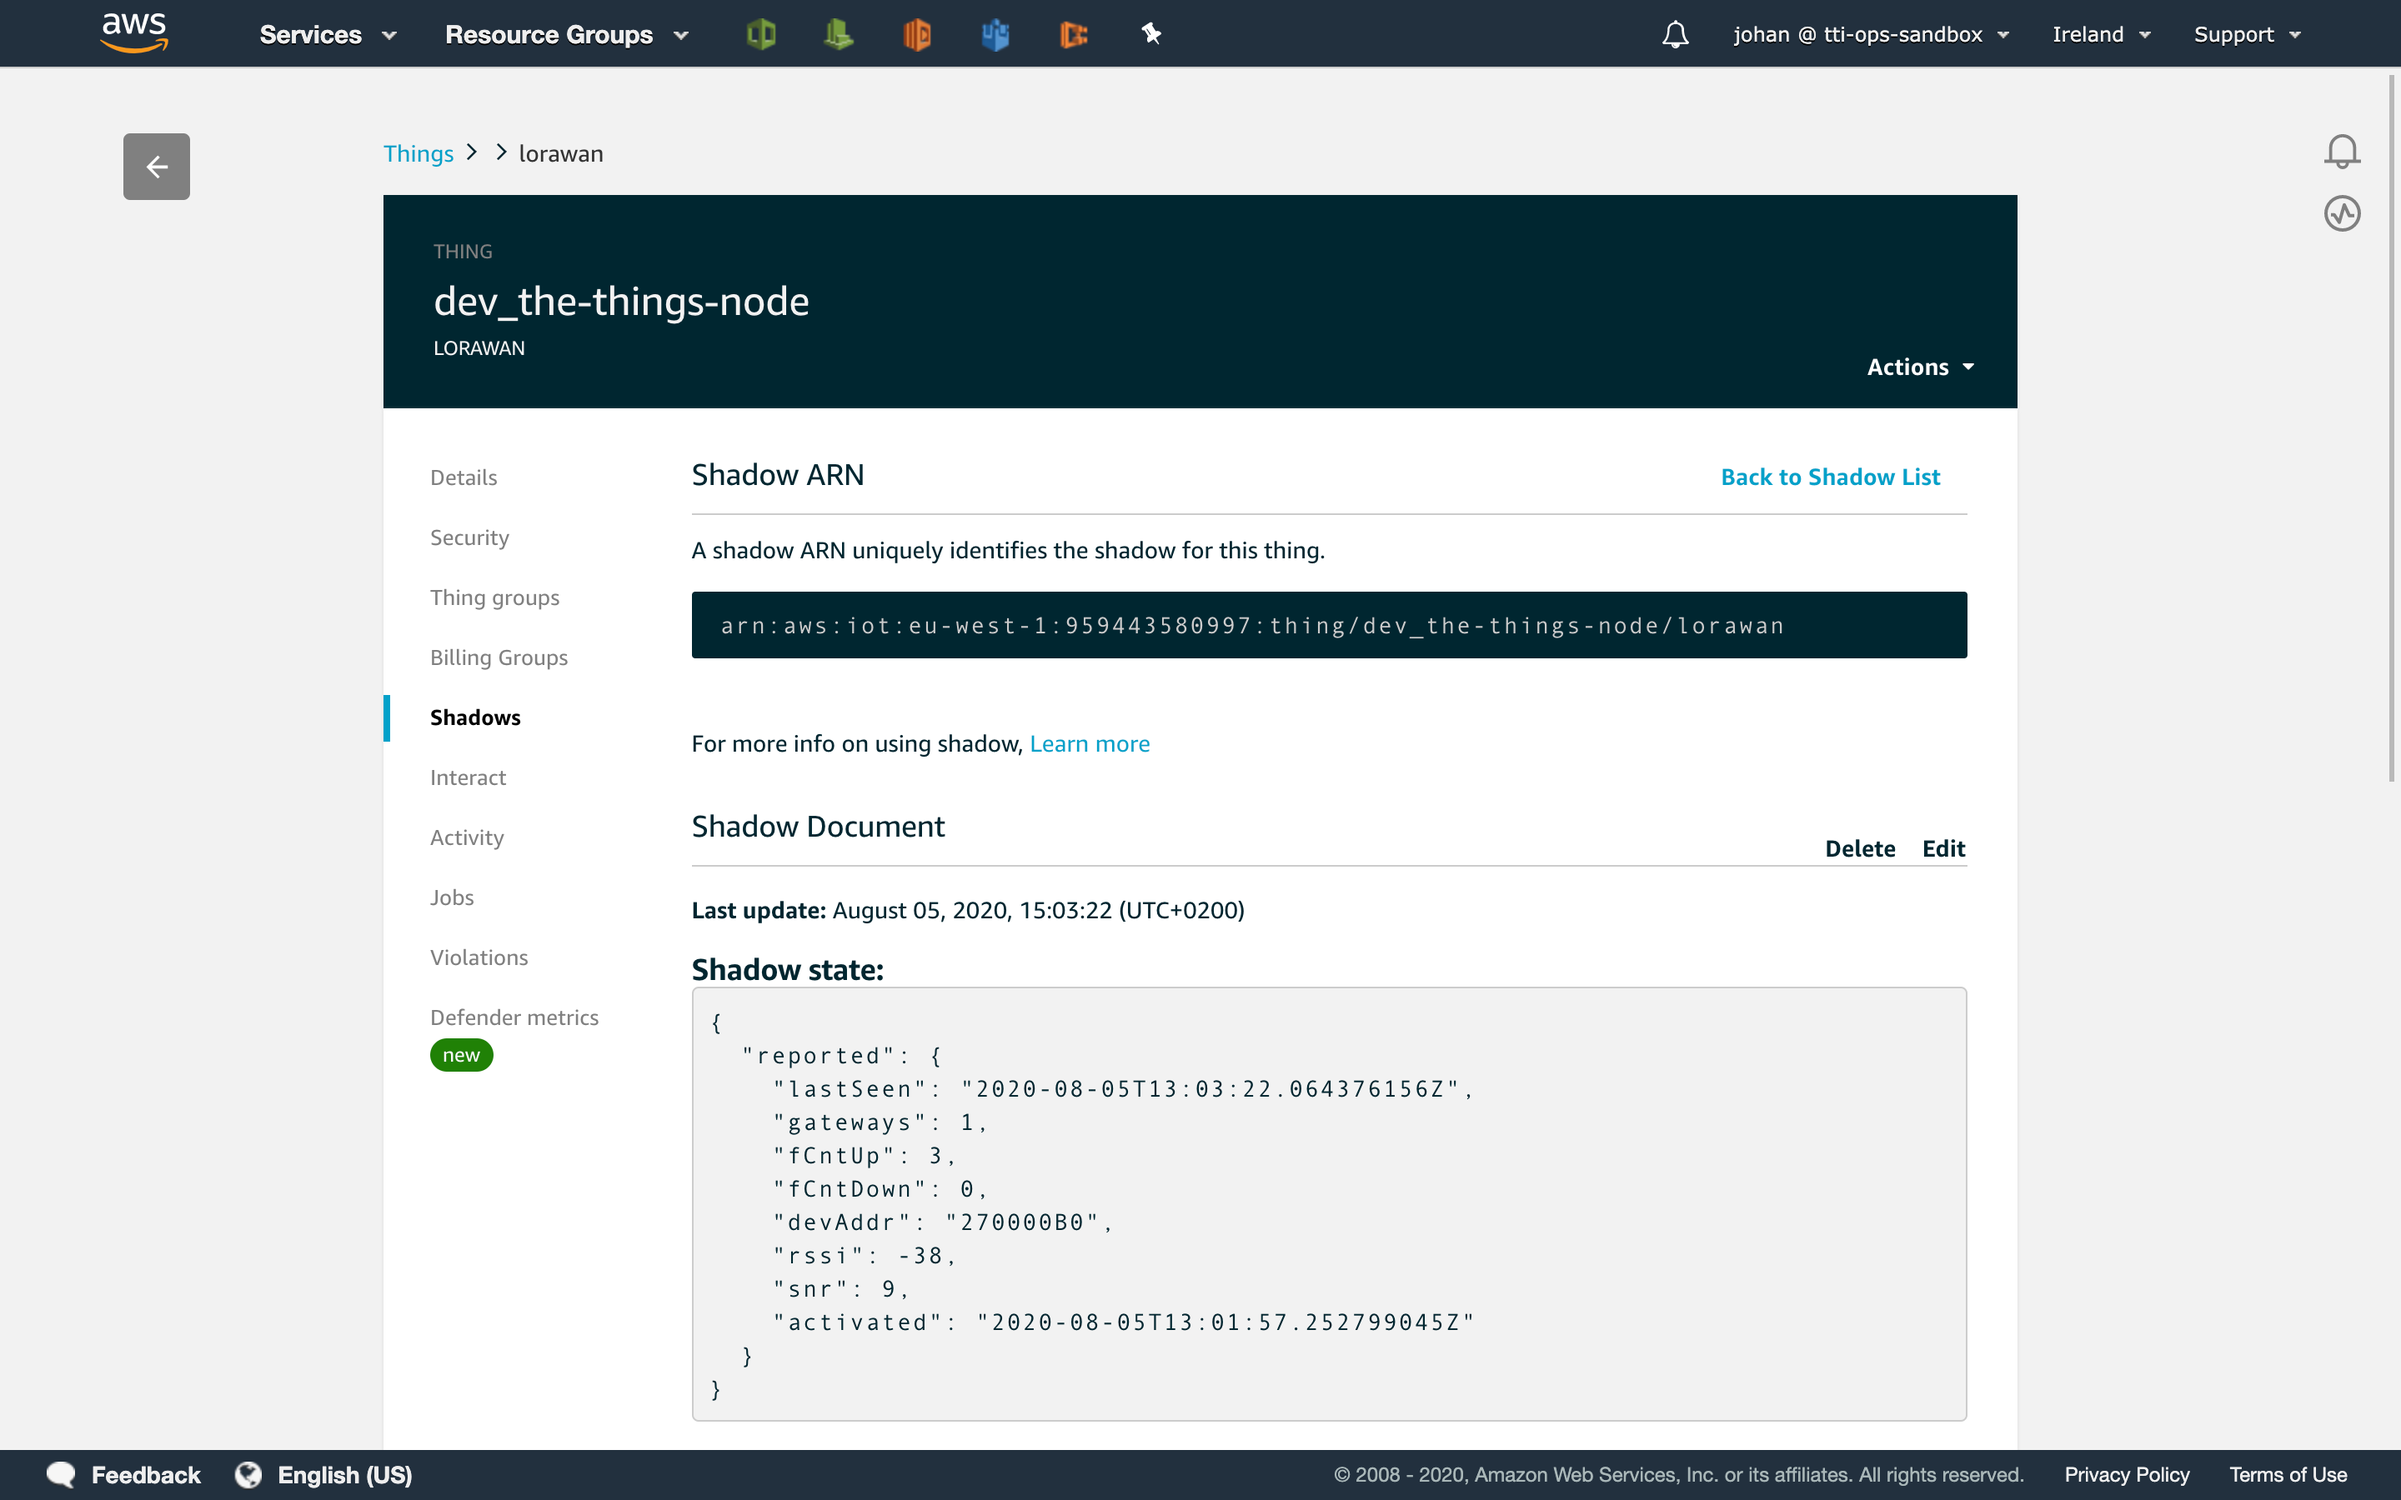
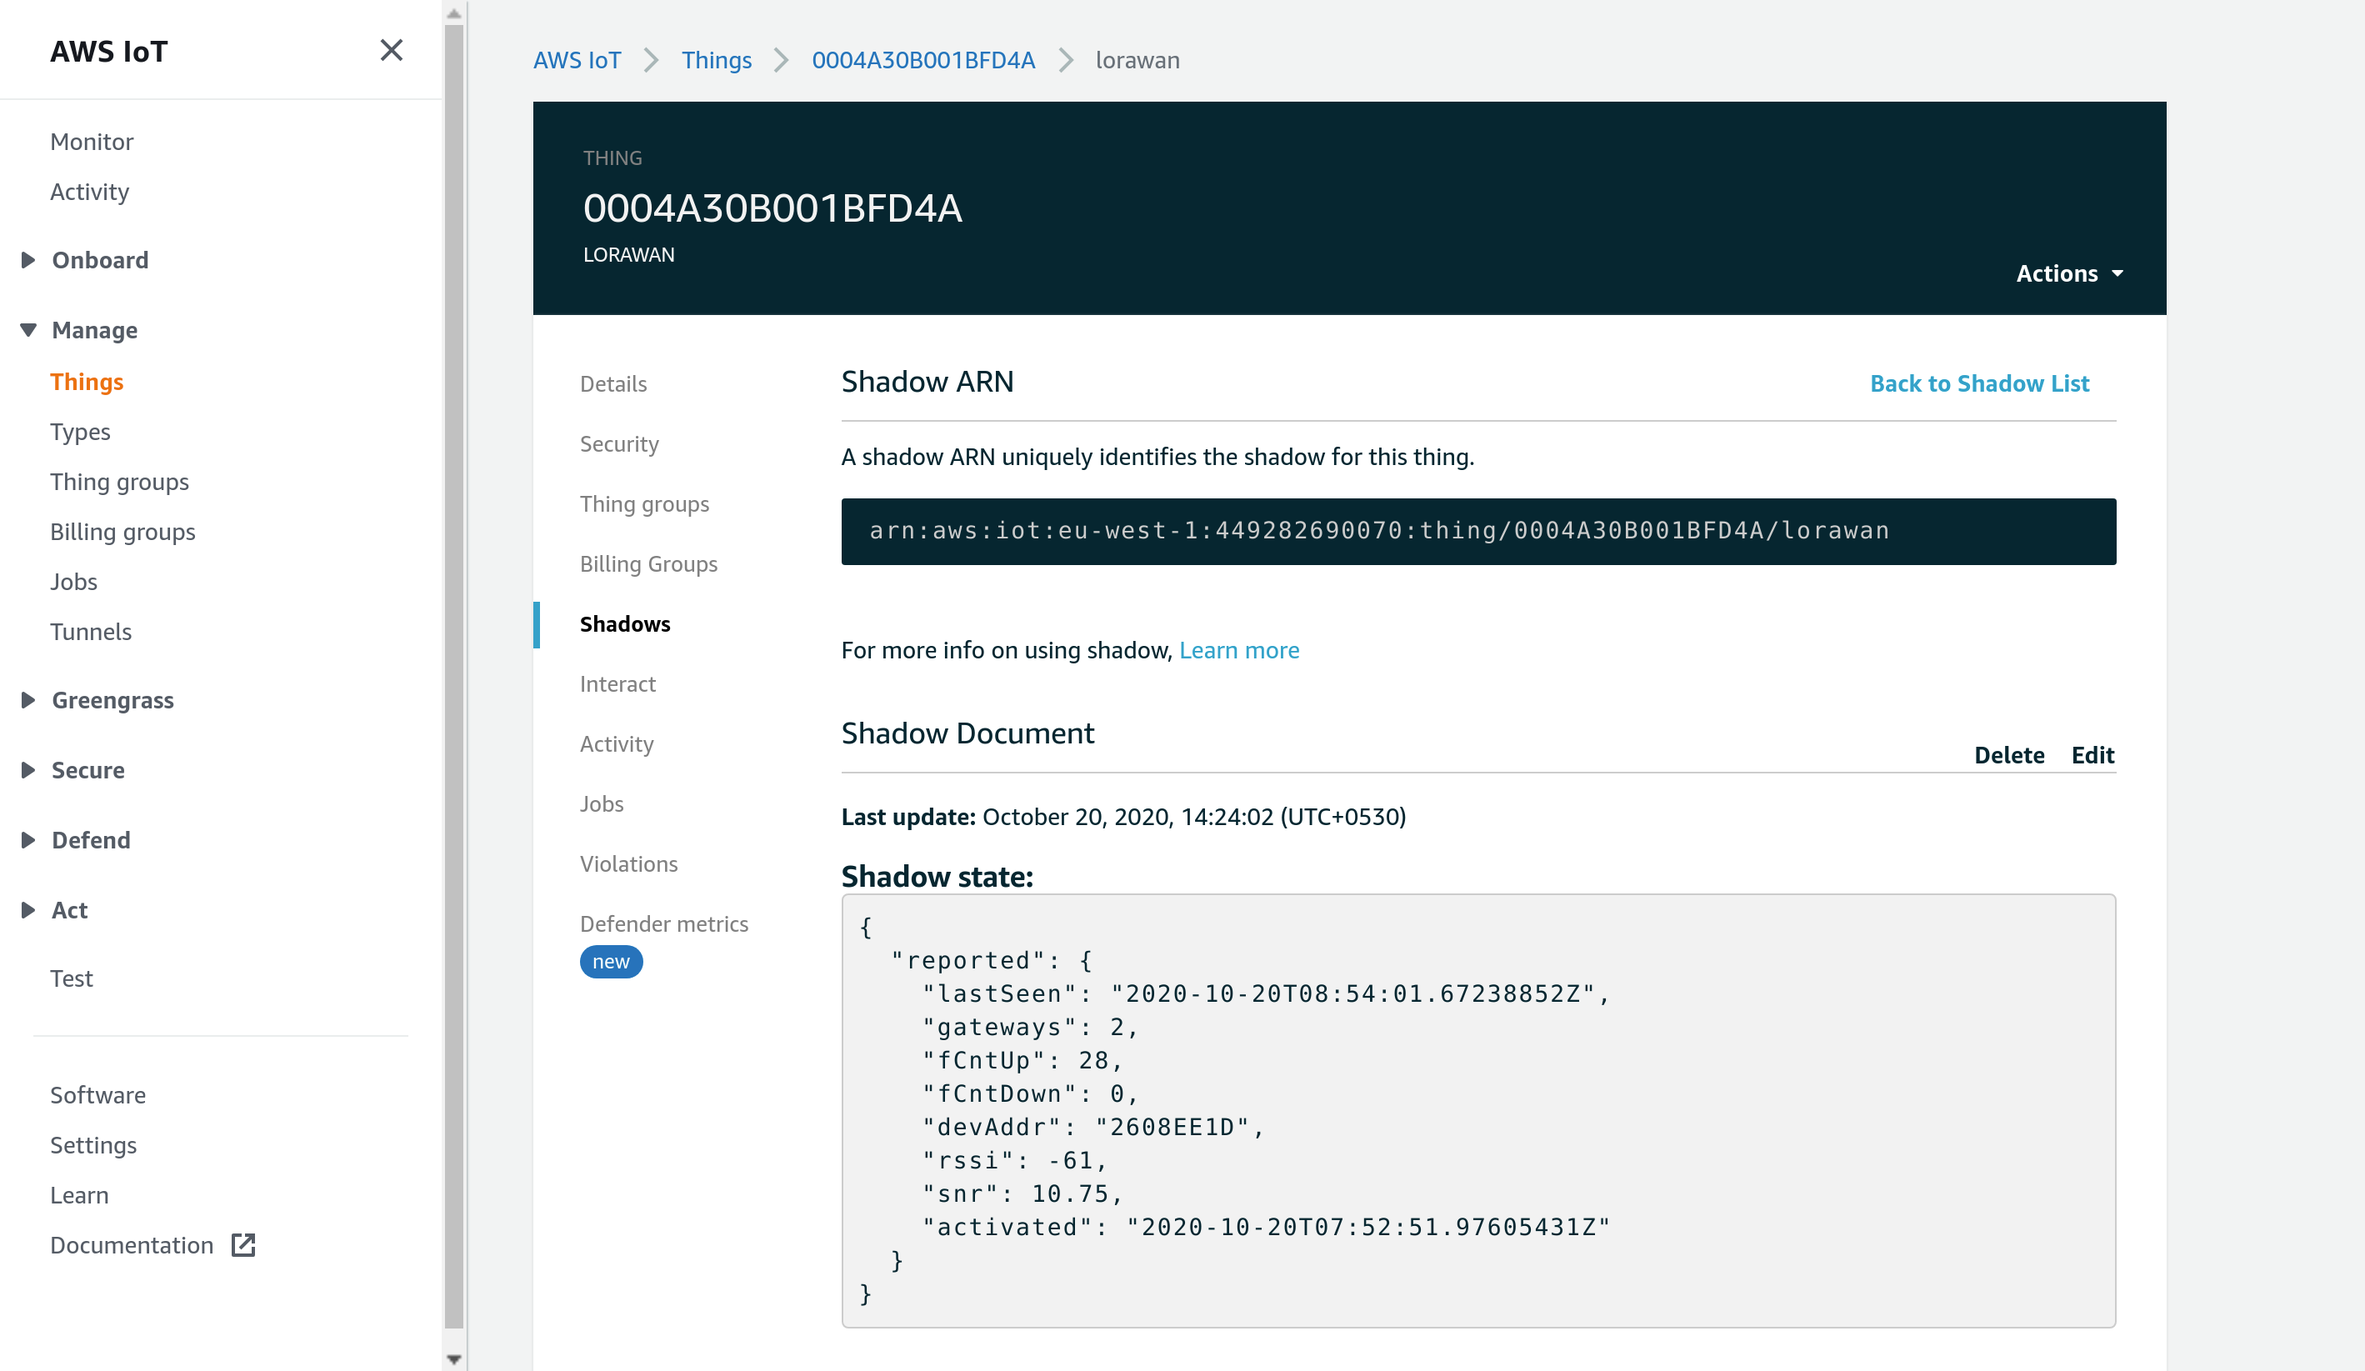
doc: Update name scheme of new things

diff --git a/doc/content/integrations/aws-iot/default/things.md b/doc/content/integrations/aws-iot/default/things.md
@@ -16,9 +16,9 @@ The AWS IoT Integration for {{% tts %}} synchronizes the device registry: you ca
 
 The AWS IoT Integration for {{% tts %}} uses the thing that you specified when deploying the integration. By default, the thing type is `lorawan`.
 
-Things are created automatically as they join the network or send an uplink message. The name scheme for new things is `<stack-name>_<device-id>`, where `<stack_name>` is the AWS CloudFormation stack name that you specified when deploying the integration, and `<device-id>` is the device ID as the device is registered in your {{% tts %}} application.
+Things are created automatically as they join the network or send an uplink message. For the name of new things, you can use their `<DevEUI>`
 
-For example, if your AWS CloudFormation stack name is `dev`, your AWS IoT things overview may look like this:
+Your AWS IoT things overview may look like this:
 
 {{< figure src="../things-overview.png" alt="Things Overview" >}}
 

diff --git a/doc/content/integrations/aws-iot/default/messages.md b/doc/content/integrations/aws-iot/default/messages.md
@@ -53,14 +53,12 @@ The message is a JSON object with the following format:
 
 ```js
 {
-  "thingName": "<stack>_<device-id>",
-
+  "thingName": "<DevEUI>",
   "bytes": "AQ==", // Base64 encoded FRMPayload
   // or
   "payload": {     // JSON encoded payload (requires payload encoder)
     "field1": 42
   },
-
   // Optional fields
   "fPort": 10,         // FPort (default: 1)
   "confirmed": true,   // Confirmed data downlink (default: false)
